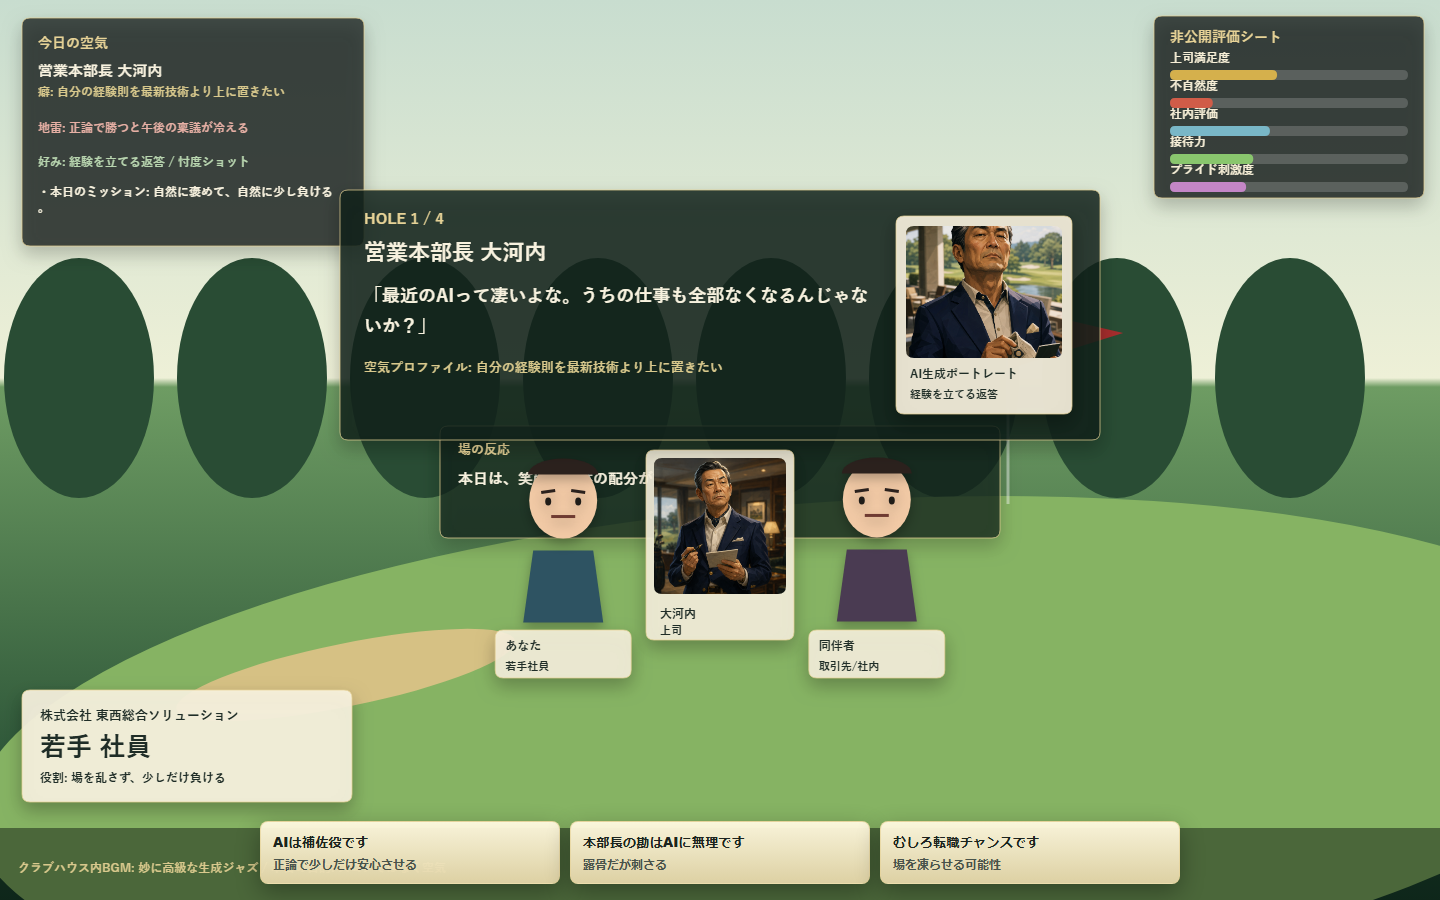
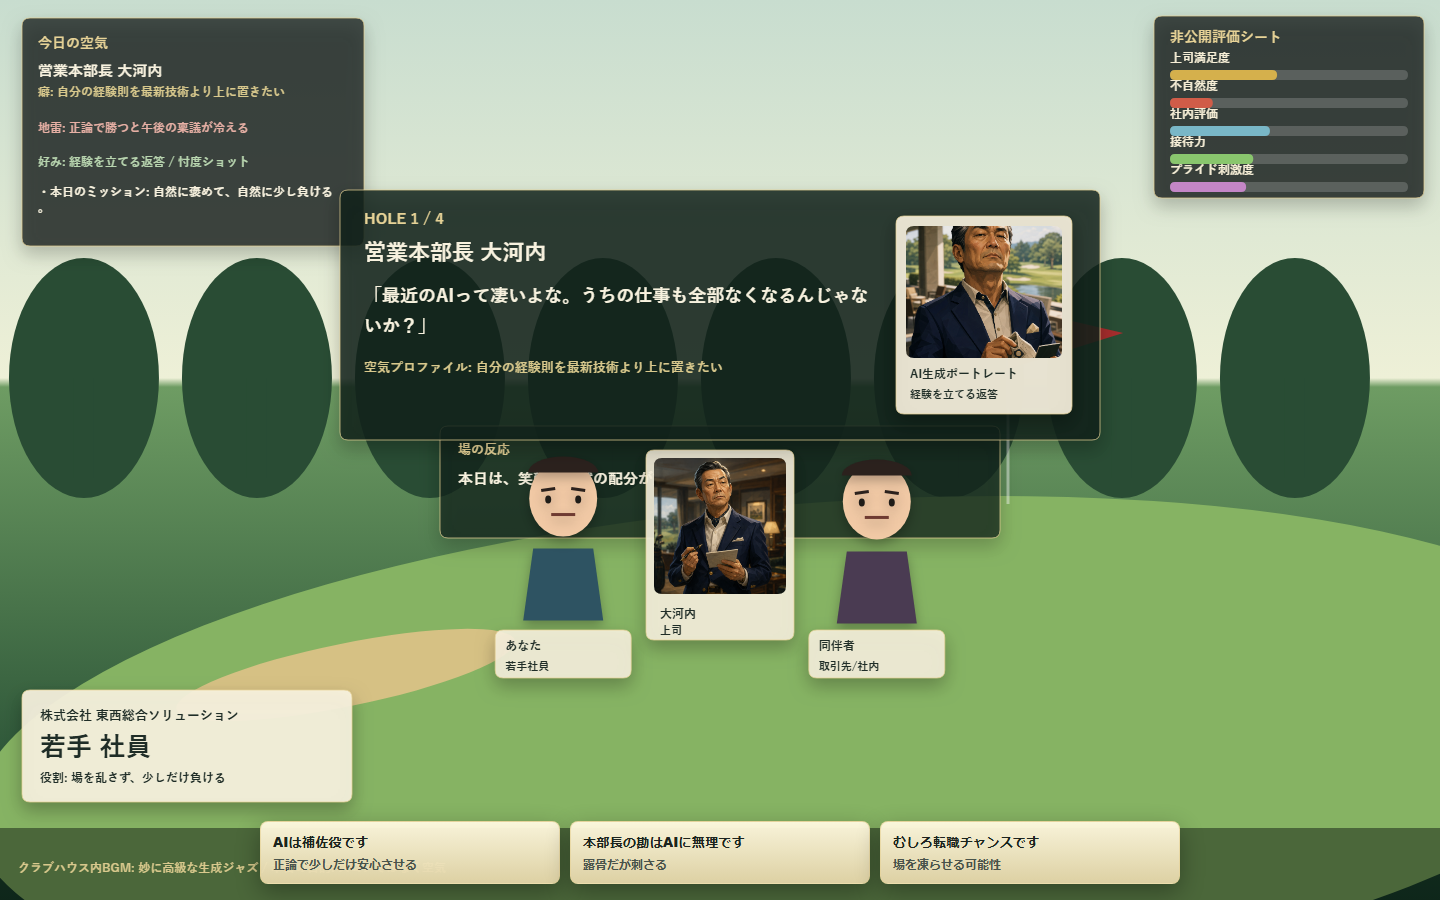
Add wind and club effects

diff --git a/src/main.ts b/src/main.ts
@@ -64,6 +64,12 @@ type BallPoint = {
   y: number;
 };
 
+type Club = {
+  name: string;
+  power: number;
+  control: number;
+};
+
 const canvasElement = document.querySelector<HTMLCanvasElement>("#game");
 const panelElement = document.querySelector<HTMLDivElement>("#choice-panel");
 
@@ -269,6 +275,13 @@ const holeLayouts: HoleLayout[] = [
   { name: "根回し 4番", yards: 301, par: 4, pinX: 0.42, greenY: 0.16, bunkerX: 0.69, waterX: 0.18 }
 ];
 
+const clubs: Club[] = [
+  { name: "Driver", power: 1.12, control: 0.76 },
+  { name: "Iron", power: 0.82, control: 0.94 },
+  { name: "Wedge", power: 0.52, control: 1.14 },
+  { name: "Putter", power: 0.2, control: 1.32 }
+];
+
 const incidents: Incident[] = [
   {
     title: "上司のボールが見つからない",
@@ -393,6 +406,8 @@ let lastDistanceToPin = 0;
 let shotStage = 1;
 let strokeCount = 0;
 let bossStrokeCount = 4;
+let wind = { x: 0, y: 0, label: "無風" };
+let selectedClub: Club = clubs[0];
 let shotFeedback = "";
 let shotFeedbackTone: "good" | "bad" | "neutral" = "neutral";
 let shotFeedbackAt = -999;
@@ -624,6 +639,24 @@ function currentHoleLayout() {
   return holeLayouts[(hole - 1) % holeLayouts.length];
 }
 
+function rollWind() {
+  const values = [
+    { x: 0.0, y: 0.0, label: "無風" },
+    { x: 0.04, y: -0.02, label: "右フォロー" },
+    { x: -0.04, y: 0.01, label: "左から重役風" },
+    { x: 0.02, y: 0.04, label: "向かい風" },
+    { x: -0.02, y: -0.03, label: "追い風" }
+  ];
+  wind = values[(hole + Math.floor(Math.random() * values.length)) % values.length];
+}
+
+function recommendedClub() {
+  if (shotStage === 3) return clubs[3];
+  if (shotStage === 2 || lastDistanceToPin < 90) return clubs[2];
+  if (lastDistanceToPin < 190) return clubs[1];
+  return clubs[0];
+}
+
 function resetBallForHole() {
   ballLanding = { x: 0.5, y: 0.86 };
   previousBall = { ...ballLanding };
@@ -633,6 +666,8 @@ function resetBallForHole() {
   shotStage = 1;
   strokeCount = 0;
   bossStrokeCount = 4 + Math.floor(Math.random() * 2);
+  rollWind();
+  selectedClub = clubs[0];
   shotFeedback = "";
   shotFeedbackAt = -999;
 }
@@ -704,6 +739,7 @@ function showShot() {
     const choice = shotChoices[index];
     applyDelta(choice.delta);
     const preferenceMessage = applyShotPreference(choice);
+    selectedClub = recommendedClub();
     activeShot = choice;
     pendingShotMessage = preferenceMessage ? `${choice.message} ${preferenceMessage}` : choice.message;
     shotTarget = choice.label === currentConversation().favoredShot ? 0.42 : 0.48;
@@ -752,19 +788,21 @@ function stageName() {
 
 function nextPointForStage(timing: number, shot: ShotChoice) {
   const layout = currentHoleLayout();
+  const club = selectedClub;
   if (shotStage === 1) {
-    const carryRatio = clamp(((shot.power + Math.round((timing - 0.5) * 38) + 8) / 112) * 100) / 100;
+    const carryRatio = clamp((((shot.power * club.power) + Math.round((timing - 0.5) * 38) + 8) / 112) * 100) / 100;
+    const miss = (timing - shotTarget) * (0.72 / club.control);
     return {
-      x: Math.max(0.02, Math.min(0.98, 0.5 + shot.curve + (timing - shotTarget) * 0.72)),
-      y: Math.max(0.07, Math.min(0.9, 0.88 - carryRatio * 0.76))
+      x: Math.max(0.02, Math.min(0.98, 0.5 + shot.curve + miss + wind.x)),
+      y: Math.max(0.07, Math.min(0.9, 0.88 - carryRatio * 0.76 + wind.y))
     };
   }
 
   const target = { x: layout.pinX, y: layout.greenY };
   if (shotStage === 3) {
     const cup = target;
-    const read = (timing - shotTarget) * 0.12 + shot.curve * 0.16;
-    const pace = shot.label === "本気ショット" ? 1.18 : shot.label === "安全プレイ" ? 0.78 : shot.label === "忖度ショット" ? 0.92 : 0.86;
+    const read = (timing - shotTarget) * (0.12 / club.control) + shot.curve * 0.16 + wind.x * 0.25;
+    const pace = (shot.label === "本気ショット" ? 1.18 : shot.label === "安全プレイ" ? 0.78 : shot.label === "忖度ショット" ? 0.92 : 0.86) * club.power * 4.2;
     return {
       x: Math.max(0.02, Math.min(0.98, ballLanding.x + (cup.x - ballLanding.x) * pace + read)),
       y: Math.max(0.06, Math.min(0.9, ballLanding.y + (cup.y - ballLanding.y) * pace + Math.abs(read) * 0.06))
@@ -772,11 +810,11 @@ function nextPointForStage(timing: number, shot: ShotChoice) {
   }
 
   const aggressiveness = shot.label === "本気ショット" ? 1.08 : shot.label === "安全プレイ" ? 0.82 : shot.label === "忖度ショット" ? 0.92 : 0.75;
-  const progress = aggressiveness * (0.78 + timing * 0.22);
-  const miss = (timing - shotTarget) * 0.2 + shot.curve * 0.25;
+  const progress = aggressiveness * club.power * (0.78 + timing * 0.22);
+  const miss = (timing - shotTarget) * (0.2 / club.control) + shot.curve * 0.25 + wind.x * 0.6;
   return {
     x: Math.max(0.02, Math.min(0.98, ballLanding.x + (target.x - ballLanding.x) * progress + miss)),
-    y: Math.max(0.06, Math.min(0.9, ballLanding.y + (target.y - ballLanding.y) * progress + Math.abs(miss) * 0.18))
+    y: Math.max(0.06, Math.min(0.9, ballLanding.y + (target.y - ballLanding.y) * progress + Math.abs(miss) * 0.18 + wind.y * 0.4))
   };
 }
 
@@ -790,7 +828,7 @@ function commitTimedShot() {
   if (!activeShot) return;
   const timing = currentShotTiming();
   const timingOffset = Math.round((timing - 0.5) * 38);
-  lastShotPower = activeShot.power + timingOffset;
+  lastShotPower = Math.round(activeShot.power * selectedClub.power + timingOffset);
   const previous = { ...ballLanding };
   previousBall = previous;
   ballLanding = nextPointForStage(timing, activeShot);
@@ -832,7 +870,7 @@ function commitTimedShot() {
 
   addMemo(`${stageName()}: ${activeShot.label} / ${lastLie} 残り${lastDistanceToPin}yd`);
   const holed = shotStage === 3 && lastDistanceToPin <= 10;
-  const message = `${pendingShotMessage} ${stageName()}は${lastLie}。ピンまで残り${lastDistanceToPin}yd。タイミング値 ${Math.round(timing * 100)}%。`;
+  const message = `${pendingShotMessage} ${selectedClub.name}で${stageName()}、${lastLie}。ピンまで残り${lastDistanceToPin}yd。風は${wind.label}。`;
   activeShot = null;
   if (shotStage < 3 && lastLie !== "OB" && lastLie !== "池") {
     selectedMessage = `${message} 次は${shotStage === 1 ? "アプローチ" : "パット"}。`;
@@ -1335,7 +1373,7 @@ function drawPuttingGreen(w: number, h: number) {
   ctx.fillText(`PUTTING GREEN / 残り${lastDistanceToPin}yd / 第3打`, x + 20, y + 28);
   ctx.fillStyle = "#f8f2df";
   ctx.font = "700 12px 'Yu Gothic', sans-serif";
-  ctx.fillText("傾斜: 右へ流れる / 理想: 入るか入らないかの距離感", x + greenW - 330, y + 28);
+  ctx.fillText(`傾斜: 右へ流れる / WIND ${wind.label} / CLUB ${selectedClub.name}`, x + greenW - 360, y + 28);
   return true;
 }
 
@@ -1489,6 +1527,9 @@ function drawGolfCourse(w: number, h: number) {
   ctx.fillStyle = "#f8f2df";
   ctx.font = "700 12px 'Yu Gothic', sans-serif";
   ctx.fillText(`自分 ${strokeCount}打 / 上司想定 ${bossStrokeCount}打 / ${lastLie} 残り${lastDistanceToPin}yd`, x + courseW - 286, y + 28);
+  ctx.fillStyle = "#d9c98d";
+  ctx.font = "800 12px 'Yu Gothic', sans-serif";
+  ctx.fillText(`CLUB ${selectedClub.name} / WIND ${wind.label}`, x + 20, y + 48);
 
   const legendX = x + 20;
   const legendY = y + courseH - 24;
@@ -1688,6 +1729,7 @@ function drawMainCopy(w: number, h: number) {
     ctx.fillStyle = "#d9c98d";
     ctx.font = "800 12px 'Yu Gothic', sans-serif";
     ctx.fillText(`CADDIE: ${lastLie}から残り${lastDistanceToPin}yd。理想は上司と同じか+1打。`, x + 24, noteY);
+    ctx.fillText(`CLUB: ${recommendedClub().name} / WIND: ${wind.label}`, x + panelW - 245, noteY);
   }
 
   if (phase === "result" && memos[0] && !isGolfPhase) {

diff --git a/README.md b/README.md
@@ -27,6 +27,7 @@ Play: https://jim-auto.github.io/settai-golf/
 - 2Dトップダウン風ホール表示
 - 1ホール3打構成: ティーショット、アプローチ、パット
 - パット専用グリーン画面
+- クラブ選択と風の影響
 - フェアウェイ、ラフ、バンカー、池、グリーンのライ判定
 - キャラ表情と場の反応
 - 隠し評価ゲージ